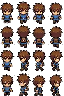
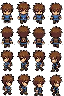
fix(player): fix character rotating artifact during run and auto-travel

Changed region(s): [[0.0, 0.5, 0.5, 1.0], [0.75, 0.5, 1.0, 0.75]]

diff --git a/src/game/systems/renderer.js b/src/game/systems/renderer.js
@@ -4,42 +4,42 @@ import { WORLD_WIDTH, WORLD_HEIGHT } from '../data/mapData.js';
 
 function drawArtwork(ctx, image) {
   ctx.drawImage(image, 0, 0, WORLD_WIDTH, WORLD_HEIGHT);
-
-  // Keep the approved art intact. The previously painted solid blocks were
-  // hiding the authored corner scenery and created two large black voids.
-  // The original logo and Map/Menu signs remain visible on the artwork.
-
 }
 
+// 4-phase natural walk cycle: Left Stride (1) -> Passing/Neutral (2) -> Right Stride (3) -> Passing/Neutral (2)
+const WALK_CYCLE = [1, 2, 3, 2];
+
 function drawPlayer(ctx, assets, player, elapsed) {
-  const {x,y,direction,moving}=player;
-  const row={down:0,up:1,left:2,right:3}[direction] ?? 0;
-  const column=moving ? 1+Math.floor(elapsed/145)%3 : 0;
-  const px=Math.round(x),py=Math.round(y);
-  ctx.fillStyle='rgba(4,8,14,.22)';
+  const { x, y, direction, moving } = player;
+  const row = { down: 0, up: 1, left: 2, right: 3 }[direction] ?? 0;
+  const column = moving ? WALK_CYCLE[Math.floor(elapsed / 135) % 4] : 0;
+  const px = Math.round(x), py = Math.round(y);
+
+  ctx.fillStyle = 'rgba(4,8,14,.22)';
   ctx.beginPath();
-  ctx.ellipse(px+16,py+40,9,2.5,0,0,Math.PI*2);
+  ctx.ellipse(px + 16, py + 40, 9, 2.5, 0, 0, Math.PI * 2);
   ctx.fill();
-  const hero=assets['player/uploaded-hero'] || assets['player/nomad-hero'];
-  if(hero?.width){
-    ctx.drawImage(hero,column*16,row*24,16,24,px+2,py-2,28,42);
+
+  const hero = assets['player/uploaded-hero'] || assets['player/nomad-hero'];
+  if (hero?.width) {
+    ctx.drawImage(hero, column * 16, row * 24, 16, 24, px + 2, py - 2, 28, 42);
   }
 }
 
-function drawWorldDirectory(ctx){
+function drawWorldDirectory(ctx) {
   // Match the permanent, authored Menu and Map plaques on the top right.
-  const x=1203,y=10,w=167,h=65;
+  const x = 1203, y = 10, w = 167, h = 65;
   ctx.save();
-  ctx.fillStyle='#0d1b33';
-  ctx.strokeStyle='#e4e5ec';
-  ctx.lineWidth=4;
+  ctx.fillStyle = '#0d1b33';
+  ctx.strokeStyle = '#e4e5ec';
+  ctx.lineWidth = 4;
   ctx.beginPath();
-  ctx.roundRect(x,y,w,h,13);
-  ctx.fill();ctx.stroke();
-  ctx.fillStyle='#ffffff';
-  ctx.font='bold 18px Arial';
-  ctx.textAlign='center';ctx.textBaseline='middle';
-  ctx.fillText('DIRECTORY',x+w/2,y+h/2);
+  ctx.roundRect(x, y, w, h, 13);
+  ctx.fill(); ctx.stroke();
+  ctx.fillStyle = '#ffffff';
+  ctx.font = 'bold 18px Arial';
+  ctx.textAlign = 'center'; ctx.textBaseline = 'middle';
+  ctx.fillText('DIRECTORY', x + w / 2, y + h / 2);
   ctx.restore();
 }
 
@@ -58,6 +58,8 @@ export function renderWorld(ctx, assets, camera, player, zoom, width, height, el
   ctx.restore();
 }
 
-export function screenToWorld(x, y, camera, zoom, width, height) {
-  return {x: (x - width / 2) / zoom + camera.x, y: (y - height / 2) / zoom + camera.y};
+export function screenToWorld(screenX, screenY, camera, zoom, canvasW, canvasH) {
+  const worldX = (screenX - canvasW / 2) / zoom + camera.x;
+  const worldY = (screenY - canvasH / 2) / zoom + camera.y;
+  return { x: worldX, y: worldY };
 }

diff --git a/src/game/systems/autoTravel.js b/src/game/systems/autoTravel.js
@@ -10,6 +10,7 @@ export class AutoTravelSystem {
     this.speed = 150; // world pixels per second
     this.onArrive = null;
     this.lastFailedDestination = null;
+    this.currentDirection = 'down';
   }
 
   startTravel(x, y, id, onArrive) {
@@ -64,17 +65,32 @@ export class AutoTravelSystem {
         continue;
       }
       const length = Math.min(step, dist);
+
+      // Direction hysteresis: prevent rapid 1-frame flickering on diagonal movement
+      const absDx = Math.abs(dx);
+      const absDy = Math.abs(dy);
+      let dir = this.currentDirection || 'down';
+
+      if (absDx > absDy * 1.2) {
+        dir = dx > 0 ? 'right' : 'left';
+      } else if (absDy > absDx * 1.2) {
+        dir = dy > 0 ? 'down' : 'up';
+      } else if (!this.currentDirection) {
+        dir = absDx > absDy ? (dx > 0 ? 'right' : 'left') : (dy > 0 ? 'down' : 'up');
+      }
+      this.currentDirection = dir;
+
       return {
         dx: dx / dist * length,
         dy: dy / dist * length,
         arrived: false,
-        direction: Math.abs(dx) > Math.abs(dy) ? (dx > 0 ? 'right' : 'left') : (dy > 0 ? 'down' : 'up')
+        direction: dir
       };
     }
     const callback = this.onArrive;
     const id = this.destinationId;
     this.cancel();
     if (callback) callback(id);
-    return { dx:0, dy:0, arrived:true, direction:'down' };
+    return { dx: 0, dy: 0, arrived: true, direction: this.currentDirection || 'down' };
   }
 }
